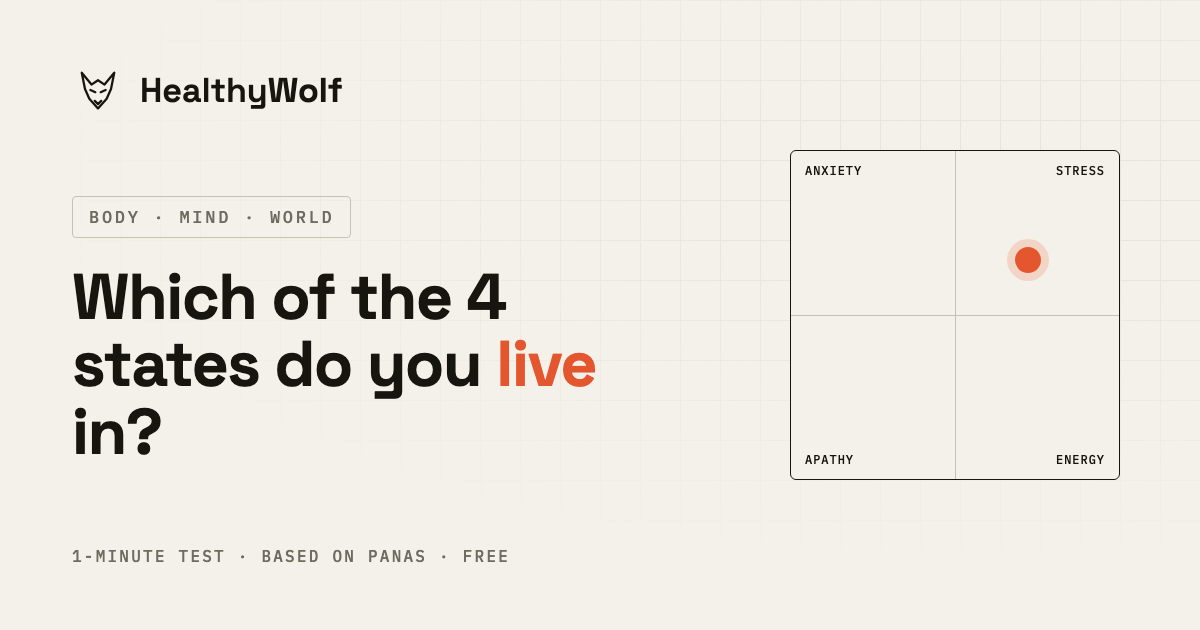
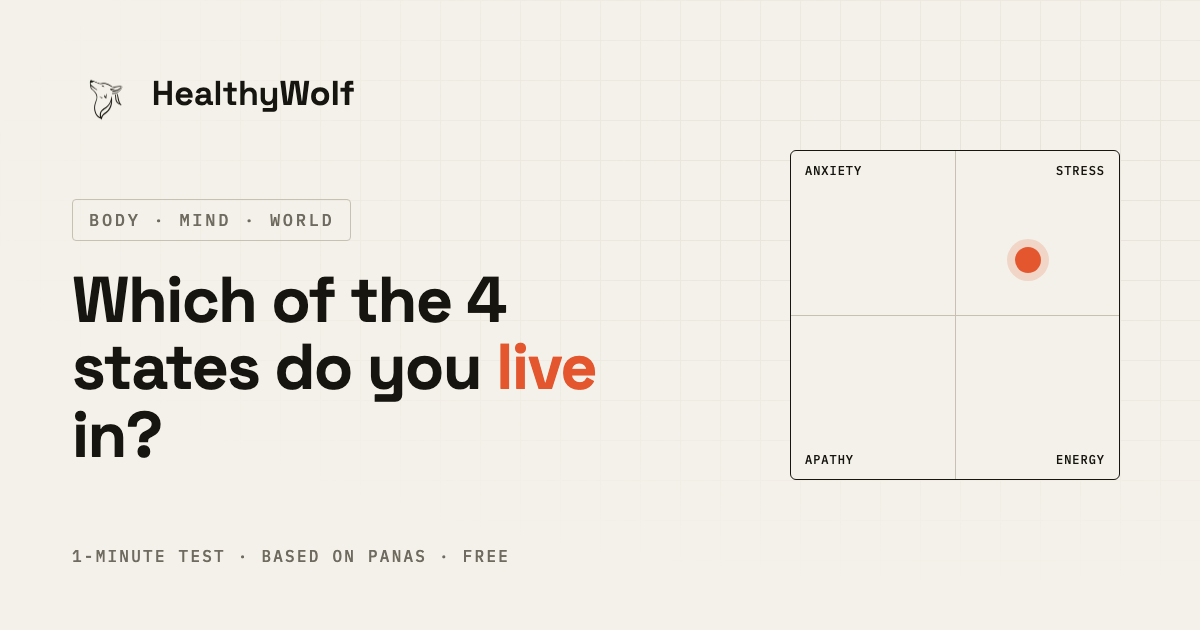
Фирменный лого волка везде + фикс фото основателя и мобильной вёрстки
Логотип:
- Заменил самодельную SVG-голову на фирменного волка (из brand PNG) во всех 12 страницах (NAV)
- Перекрасил силуэт в чернильный #16150F (для бумаги) и кремовый #F4F1EA (для тёмного): assets/wolf-ink.png, wolf-cream.png
- Новый favicon.ico + apple-touch-icon.png (чернильный волк на бумаге); удалён старый favicon.svg
- og.png/og-en.png пересобраны с фирменным лого
- Двух разных волков больше нет

Фото основателя (janov.png):
- Починил aspect-ratio 3:4 (была натуральная высота 1596px → фото на весь экран)
- Кадр «голова и плечи»: object-position 50% 15%, ремень/низ вне кадра
- Мобильный: max-width 280px по центру; десктоп: колонка max 360px
- Подпись «ДЖОНИ ВОЛК · ОСНОВАТЕЛЬ» в одну строку

Мобильная вёрстка (390px):
- Основные CTA на всю ширину с отступами 20px
- Проверены все 12 страниц: горизонтальных переполнений нет
- Бургер-меню, якоря, переключатель RU/EN работают

diff --git a/assets/lab.css b/assets/lab.css
@@ -162,6 +162,13 @@ section.tight { padding: clamp(40px, 8vw, 72px) 0; }
 .btn--sm { padding: 11px 18px; font-size: 12px; }
 .btn--block { display: flex; width: 100%; justify-content: center; }
 
+/* на мобиле основные CTA — на всю ширину (отступы 20px даёт .wrap) */
+@media (max-width: 480px) {
+  .btn:not(.btn--sm) { width: 100%; justify-content: center; }
+  .hero__cta { width: 100%; }
+  .result__actions { flex-direction: column; }
+}
+
 /* текст-ссылка со стрелкой */
 .tlink {
   font-family: var(--mono);
@@ -186,7 +193,7 @@ section.tight { padding: clamp(40px, 8vw, 72px) 0; }
 }
 .nav__in { max-width: var(--maxw); margin: 0 auto; padding: 12px var(--pad); display: flex; align-items: center; justify-content: space-between; gap: 16px; }
 .brand { display: inline-flex; align-items: center; gap: 10px; text-decoration: none; color: var(--ink); }
-.brand svg { width: 30px; height: 30px; display: block; }
+.brand__ico { height: 28px; width: auto; display: block; }
 .brand__name { font-family: var(--display); font-weight: 600; font-size: 19px; letter-spacing: -0.01em; }
 .brand__name b { font-weight: 600; }
 
@@ -283,8 +290,8 @@ section.tight { padding: clamp(40px, 8vw, 72px) 0; }
 @media (max-width: 800px) {
   .cols2 { grid-template-columns: 1fr; }
   .cols2.rev > *:first-child { order: 2; }
-  /* на мобиле портрет основателя не должен занимать весь экран */
-  .cols2 .photo { max-width: 230px; }
+  /* на мобиле портрет основателя компактный и по центру колонки */
+  .cols2 .photo { max-width: 280px; }
 }
 
 .lead {
@@ -292,10 +299,10 @@ section.tight { padding: clamp(40px, 8vw, 72px) 0; }
   line-height: 1.3; color: var(--ink); margin: 0 0 18px; max-width: 26ch;
 }
 
-/* фото в рамке (разрешённая «коробка») */
-.photo { border: 1px solid var(--ink); border-radius: var(--radius); overflow: hidden; background: var(--paper-2); }
-.photo img { width: 100%; aspect-ratio: 3 / 4; object-fit: cover; object-position: 50% 12%; }
-.photo__cap { font-family: var(--mono); font-size: 10.5px; letter-spacing: 0.14em; text-transform: uppercase; color: var(--ink-2); padding: 10px 12px; border-top: 1px solid var(--line); }
+/* фото в рамке (разрешённая «коробка») — портрет «голова и плечи» */
+.photo { border: 1px solid var(--ink); border-radius: var(--radius); overflow: hidden; background: var(--paper-2); max-width: 360px; margin-inline: auto; }
+.photo img { width: 100%; height: auto; aspect-ratio: 3 / 4; object-fit: cover; object-position: 50% 15%; display: block; }
+.photo__cap { font-family: var(--mono); font-size: 10px; letter-spacing: 0.1em; text-transform: uppercase; color: var(--ink-2); padding: 10px 12px; border-top: 1px solid var(--line); white-space: nowrap; overflow: hidden; text-overflow: ellipsis; }
 
 /* -------- слот под видео -------- */
 .videoslot {

diff --git a/index.html b/index.html
@@ -24,8 +24,8 @@
 <meta name="twitter:description" content="Тело, психика и мир — одна машина. Бесплатный тест на основе PANAS покажет твой тип.">
 <meta name="twitter:image" content="https://myhealthywolf.com/assets/og.png">
 <meta name="theme-color" content="#F4F1EA">
-<link rel="icon" href="/assets/favicon.svg" type="image/svg+xml">
-<link rel="apple-touch-icon" href="/assets/favicon.svg">
+<link rel="icon" href="/assets/favicon.ico" sizes="any">
+<link rel="apple-touch-icon" href="/assets/apple-touch-icon.png">
 <link rel="preconnect" href="https://fonts.googleapis.com">
 <link rel="preconnect" href="https://fonts.gstatic.com" crossorigin>
 <link href="https://fonts.googleapis.com/css2?family=IBM+Plex+Mono:wght@400;500;600&family=Inter:wght@400;500;600&family=Space+Grotesk:wght@500;600;700&display=swap" rel="stylesheet">
@@ -40,10 +40,7 @@
 <header class="nav">
   <div class="nav__in">
     <a class="brand" href="/" aria-label="HealthyWolf — на главную">
-      <svg viewBox="0 0 48 48" fill="none" stroke="currentColor" stroke-width="2.1" stroke-linejoin="round" stroke-linecap="round" aria-hidden="true">
-        <path d="M9 8 L18 19 L24 15 L30 19 L39 8 L36 23 L32 32 L24 41 L16 32 L12 23 Z"/>
-        <path d="M17 24 L21.5 26"/><path d="M31 24 L26.5 26"/><path d="M21 34 L24 37 L27 34"/>
-      </svg>
+      <img class="brand__ico" src="/assets/wolf-ink.png" alt="" width="30" height="27">
       <span class="brand__name">Healthy<b>Wolf</b></span>
     </a>
     <button class="burger" aria-label="Меню" aria-expanded="false"><span></span></button>

diff --git a/en/index.html b/en/index.html
@@ -23,8 +23,8 @@
 <meta name="twitter:description" content="Body, mind and world are one machine. A free PANAS-based test shows your type.">
 <meta name="twitter:image" content="https://myhealthywolf.com/assets/og-en.png">
 <meta name="theme-color" content="#F4F1EA">
-<link rel="icon" href="/assets/favicon.svg" type="image/svg+xml">
-<link rel="apple-touch-icon" href="/assets/favicon.svg">
+<link rel="icon" href="/assets/favicon.ico" sizes="any">
+<link rel="apple-touch-icon" href="/assets/apple-touch-icon.png">
 <link rel="preconnect" href="https://fonts.googleapis.com">
 <link rel="preconnect" href="https://fonts.gstatic.com" crossorigin>
 <link href="https://fonts.googleapis.com/css2?family=IBM+Plex+Mono:wght@400;500;600&family=Inter:wght@400;500;600&family=Space+Grotesk:wght@500;600;700&display=swap" rel="stylesheet">
@@ -39,10 +39,7 @@
 <header class="nav">
   <div class="nav__in">
     <a class="brand" href="/en/" aria-label="HealthyWolf — home">
-      <svg viewBox="0 0 48 48" fill="none" stroke="currentColor" stroke-width="2.1" stroke-linejoin="round" stroke-linecap="round" aria-hidden="true">
-        <path d="M9 8 L18 19 L24 15 L30 19 L39 8 L36 23 L32 32 L24 41 L16 32 L12 23 Z"/>
-        <path d="M17 24 L21.5 26"/><path d="M31 24 L26.5 26"/><path d="M21 34 L24 37 L27 34"/>
-      </svg>
+      <img class="brand__ico" src="/assets/wolf-ink.png" alt="" width="30" height="27">
       <span class="brand__name">Healthy<b>Wolf</b></span>
     </a>
     <button class="burger" aria-label="Menu" aria-expanded="false"><span></span></button>

diff --git a/privacy/index.html b/privacy/index.html
@@ -9,7 +9,8 @@
 <link rel="alternate" hreflang="ru" href="https://myhealthywolf.com/privacy/">
 <link rel="alternate" hreflang="en" href="https://myhealthywolf.com/en/privacy/">
 <meta name="theme-color" content="#F4F1EA">
-<link rel="icon" href="/assets/favicon.svg" type="image/svg+xml">
+<link rel="icon" href="/assets/favicon.ico" sizes="any">
+<link rel="apple-touch-icon" href="/assets/apple-touch-icon.png">
 <link rel="preconnect" href="https://fonts.googleapis.com">
 <link rel="preconnect" href="https://fonts.gstatic.com" crossorigin>
 <link href="https://fonts.googleapis.com/css2?family=IBM+Plex+Mono:wght@400;500;600&family=Inter:wght@400;500;600&family=Space+Grotesk:wght@500;600;700&display=swap" rel="stylesheet">
@@ -21,10 +22,7 @@
 <header class="nav">
   <div class="nav__in">
     <a class="brand" href="/" aria-label="HealthyWolf — на главную">
-      <svg viewBox="0 0 48 48" fill="none" stroke="currentColor" stroke-width="2.1" stroke-linejoin="round" stroke-linecap="round" aria-hidden="true">
-        <path d="M9 8 L18 19 L24 15 L30 19 L39 8 L36 23 L32 32 L24 41 L16 32 L12 23 Z"/>
-        <path d="M17 24 L21.5 26"/><path d="M31 24 L26.5 26"/><path d="M21 34 L24 37 L27 34"/>
-      </svg>
+      <img class="brand__ico" src="/assets/wolf-ink.png" alt="" width="30" height="27">
       <span class="brand__name">Healthy<b>Wolf</b></span>
     </a>
     <span class="lang">

diff --git a/terms/index.html b/terms/index.html
@@ -9,7 +9,8 @@
 <link rel="alternate" hreflang="ru" href="https://myhealthywolf.com/terms/">
 <link rel="alternate" hreflang="en" href="https://myhealthywolf.com/en/terms/">
 <meta name="theme-color" content="#F4F1EA">
-<link rel="icon" href="/assets/favicon.svg" type="image/svg+xml">
+<link rel="icon" href="/assets/favicon.ico" sizes="any">
+<link rel="apple-touch-icon" href="/assets/apple-touch-icon.png">
 <link rel="preconnect" href="https://fonts.googleapis.com">
 <link rel="preconnect" href="https://fonts.gstatic.com" crossorigin>
 <link href="https://fonts.googleapis.com/css2?family=IBM+Plex+Mono:wght@400;500;600&family=Inter:wght@400;500;600&family=Space+Grotesk:wght@500;600;700&display=swap" rel="stylesheet">
@@ -21,10 +22,7 @@
 <header class="nav">
   <div class="nav__in">
     <a class="brand" href="/" aria-label="HealthyWolf — на главную">
-      <svg viewBox="0 0 48 48" fill="none" stroke="currentColor" stroke-width="2.1" stroke-linejoin="round" stroke-linecap="round" aria-hidden="true">
-        <path d="M9 8 L18 19 L24 15 L30 19 L39 8 L36 23 L32 32 L24 41 L16 32 L12 23 Z"/>
-        <path d="M17 24 L21.5 26"/><path d="M31 24 L26.5 26"/><path d="M21 34 L24 37 L27 34"/>
-      </svg>
+      <img class="brand__ico" src="/assets/wolf-ink.png" alt="" width="30" height="27">
       <span class="brand__name">Healthy<b>Wolf</b></span>
     </a>
     <span class="lang">

diff --git a/en/privacy/index.html b/en/privacy/index.html
@@ -9,7 +9,8 @@
 <link rel="alternate" hreflang="ru" href="https://myhealthywolf.com/privacy/">
 <link rel="alternate" hreflang="en" href="https://myhealthywolf.com/en/privacy/">
 <meta name="theme-color" content="#F4F1EA">
-<link rel="icon" href="/assets/favicon.svg" type="image/svg+xml">
+<link rel="icon" href="/assets/favicon.ico" sizes="any">
+<link rel="apple-touch-icon" href="/assets/apple-touch-icon.png">
 <link rel="preconnect" href="https://fonts.googleapis.com">
 <link rel="preconnect" href="https://fonts.gstatic.com" crossorigin>
 <link href="https://fonts.googleapis.com/css2?family=IBM+Plex+Mono:wght@400;500;600&family=Inter:wght@400;500;600&family=Space+Grotesk:wght@500;600;700&display=swap" rel="stylesheet">
@@ -21,10 +22,7 @@
 <header class="nav">
   <div class="nav__in">
     <a class="brand" href="/en/" aria-label="HealthyWolf — home">
-      <svg viewBox="0 0 48 48" fill="none" stroke="currentColor" stroke-width="2.1" stroke-linejoin="round" stroke-linecap="round" aria-hidden="true">
-        <path d="M9 8 L18 19 L24 15 L30 19 L39 8 L36 23 L32 32 L24 41 L16 32 L12 23 Z"/>
-        <path d="M17 24 L21.5 26"/><path d="M31 24 L26.5 26"/><path d="M21 34 L24 37 L27 34"/>
-      </svg>
+      <img class="brand__ico" src="/assets/wolf-ink.png" alt="" width="30" height="27">
       <span class="brand__name">Healthy<b>Wolf</b></span>
     </a>
     <span class="lang">

diff --git a/en/terms/index.html b/en/terms/index.html
@@ -9,7 +9,8 @@
 <link rel="alternate" hreflang="ru" href="https://myhealthywolf.com/terms/">
 <link rel="alternate" hreflang="en" href="https://myhealthywolf.com/en/terms/">
 <meta name="theme-color" content="#F4F1EA">
-<link rel="icon" href="/assets/favicon.svg" type="image/svg+xml">
+<link rel="icon" href="/assets/favicon.ico" sizes="any">
+<link rel="apple-touch-icon" href="/assets/apple-touch-icon.png">
 <link rel="preconnect" href="https://fonts.googleapis.com">
 <link rel="preconnect" href="https://fonts.gstatic.com" crossorigin>
 <link href="https://fonts.googleapis.com/css2?family=IBM+Plex+Mono:wght@400;500;600&family=Inter:wght@400;500;600&family=Space+Grotesk:wght@500;600;700&display=swap" rel="stylesheet">
@@ -21,10 +22,7 @@
 <header class="nav">
   <div class="nav__in">
     <a class="brand" href="/en/" aria-label="HealthyWolf — home">
-      <svg viewBox="0 0 48 48" fill="none" stroke="currentColor" stroke-width="2.1" stroke-linejoin="round" stroke-linecap="round" aria-hidden="true">
-        <path d="M9 8 L18 19 L24 15 L30 19 L39 8 L36 23 L32 32 L24 41 L16 32 L12 23 Z"/>
-        <path d="M17 24 L21.5 26"/><path d="M31 24 L26.5 26"/><path d="M21 34 L24 37 L27 34"/>
-      </svg>
+      <img class="brand__ico" src="/assets/wolf-ink.png" alt="" width="30" height="27">
       <span class="brand__name">Healthy<b>Wolf</b></span>
     </a>
     <span class="lang">

diff --git a/test/index.html b/test/index.html
@@ -16,7 +16,8 @@
 <meta property="og:image" content="https://myhealthywolf.com/assets/og.png">
 <meta name="twitter:card" content="summary_large_image">
 <meta name="theme-color" content="#F4F1EA">
-<link rel="icon" href="/assets/favicon.svg" type="image/svg+xml">
+<link rel="icon" href="/assets/favicon.ico" sizes="any">
+<link rel="apple-touch-icon" href="/assets/apple-touch-icon.png">
 <link rel="preconnect" href="https://fonts.googleapis.com">
 <link rel="preconnect" href="https://fonts.gstatic.com" crossorigin>
 <link href="https://fonts.googleapis.com/css2?family=IBM+Plex+Mono:wght@400;500;600&family=Inter:wght@400;500;600&family=Space+Grotesk:wght@500;600;700&display=swap" rel="stylesheet">
@@ -28,10 +29,7 @@
 <header class="nav">
   <div class="nav__in">
     <a class="brand" href="/" aria-label="HealthyWolf — на главную">
-      <svg viewBox="0 0 48 48" fill="none" stroke="currentColor" stroke-width="2.1" stroke-linejoin="round" stroke-linecap="round" aria-hidden="true">
-        <path d="M9 8 L18 19 L24 15 L30 19 L39 8 L36 23 L32 32 L24 41 L16 32 L12 23 Z"/>
-        <path d="M17 24 L21.5 26"/><path d="M31 24 L26.5 26"/><path d="M21 34 L24 37 L27 34"/>
-      </svg>
+      <img class="brand__ico" src="/assets/wolf-ink.png" alt="" width="30" height="27">
       <span class="brand__name">Healthy<b>Wolf</b></span>
     </a>
     <span class="lang">

diff --git a/en/test/index.html b/en/test/index.html
@@ -16,7 +16,8 @@
 <meta property="og:image" content="https://myhealthywolf.com/assets/og-en.png">
 <meta name="twitter:card" content="summary_large_image">
 <meta name="theme-color" content="#F4F1EA">
-<link rel="icon" href="/assets/favicon.svg" type="image/svg+xml">
+<link rel="icon" href="/assets/favicon.ico" sizes="any">
+<link rel="apple-touch-icon" href="/assets/apple-touch-icon.png">
 <link rel="preconnect" href="https://fonts.googleapis.com">
 <link rel="preconnect" href="https://fonts.gstatic.com" crossorigin>
 <link href="https://fonts.googleapis.com/css2?family=IBM+Plex+Mono:wght@400;500;600&family=Inter:wght@400;500;600&family=Space+Grotesk:wght@500;600;700&display=swap" rel="stylesheet">
@@ -28,10 +29,7 @@
 <header class="nav">
   <div class="nav__in">
     <a class="brand" href="/en/" aria-label="HealthyWolf — home">
-      <svg viewBox="0 0 48 48" fill="none" stroke="currentColor" stroke-width="2.1" stroke-linejoin="round" stroke-linecap="round" aria-hidden="true">
-        <path d="M9 8 L18 19 L24 15 L30 19 L39 8 L36 23 L32 32 L24 41 L16 32 L12 23 Z"/>
-        <path d="M17 24 L21.5 26"/><path d="M31 24 L26.5 26"/><path d="M21 34 L24 37 L27 34"/>
-      </svg>
+      <img class="brand__ico" src="/assets/wolf-ink.png" alt="" width="30" height="27">
       <span class="brand__name">Healthy<b>Wolf</b></span>
     </a>
     <span class="lang">

diff --git a/test/quiz/index.html b/test/quiz/index.html
@@ -5,7 +5,8 @@
 <meta name="viewport" content="width=device-width, initial-scale=1">
 <meta name="robots" content="noindex">
 <title>Тест — вопросы | HealthyWolf</title>
-<link rel="icon" href="/assets/favicon.svg" type="image/svg+xml">
+<link rel="icon" href="/assets/favicon.ico" sizes="any">
+<link rel="apple-touch-icon" href="/assets/apple-touch-icon.png">
 <meta name="theme-color" content="#F4F1EA">
 <link rel="preconnect" href="https://fonts.googleapis.com">
 <link rel="preconnect" href="https://fonts.gstatic.com" crossorigin>
@@ -18,10 +19,7 @@
 <header class="nav">
   <div class="nav__in">
     <a class="brand" href="/test/" aria-label="HealthyWolf">
-      <svg viewBox="0 0 48 48" fill="none" stroke="currentColor" stroke-width="2.1" stroke-linejoin="round" stroke-linecap="round" aria-hidden="true">
-        <path d="M9 8 L18 19 L24 15 L30 19 L39 8 L36 23 L32 32 L24 41 L16 32 L12 23 Z"/>
-        <path d="M17 24 L21.5 26"/><path d="M31 24 L26.5 26"/><path d="M21 34 L24 37 L27 34"/>
-      </svg>
+      <img class="brand__ico" src="/assets/wolf-ink.png" alt="" width="30" height="27">
       <span class="brand__name">Healthy<b>Wolf</b></span>
     </a>
     <span class="mono sm" id="quiz-hint">PANAS · 24</span>

diff --git a/en/test/quiz/index.html b/en/test/quiz/index.html
@@ -5,7 +5,8 @@
 <meta name="viewport" content="width=device-width, initial-scale=1">
 <meta name="robots" content="noindex">
 <title>Test — questions | HealthyWolf</title>
-<link rel="icon" href="/assets/favicon.svg" type="image/svg+xml">
+<link rel="icon" href="/assets/favicon.ico" sizes="any">
+<link rel="apple-touch-icon" href="/assets/apple-touch-icon.png">
 <meta name="theme-color" content="#F4F1EA">
 <link rel="preconnect" href="https://fonts.googleapis.com">
 <link rel="preconnect" href="https://fonts.gstatic.com" crossorigin>
@@ -18,10 +19,7 @@
 <header class="nav">
   <div class="nav__in">
     <a class="brand" href="/en/test/" aria-label="HealthyWolf">
-      <svg viewBox="0 0 48 48" fill="none" stroke="currentColor" stroke-width="2.1" stroke-linejoin="round" stroke-linecap="round" aria-hidden="true">
-        <path d="M9 8 L18 19 L24 15 L30 19 L39 8 L36 23 L32 32 L24 41 L16 32 L12 23 Z"/>
-        <path d="M17 24 L21.5 26"/><path d="M31 24 L26.5 26"/><path d="M21 34 L24 37 L27 34"/>
-      </svg>
+      <img class="brand__ico" src="/assets/wolf-ink.png" alt="" width="30" height="27">
       <span class="brand__name">Healthy<b>Wolf</b></span>
     </a>
     <span class="mono sm">PANAS · 24</span>

diff --git a/test/result/index.html b/test/result/index.html
@@ -5,7 +5,8 @@
 <meta name="viewport" content="width=device-width, initial-scale=1">
 <meta name="robots" content="noindex">
 <title>Твой отчёт | HealthyWolf</title>
-<link rel="icon" href="/assets/favicon.svg" type="image/svg+xml">
+<link rel="icon" href="/assets/favicon.ico" sizes="any">
+<link rel="apple-touch-icon" href="/assets/apple-touch-icon.png">
 <meta name="theme-color" content="#F4F1EA">
 <link rel="preconnect" href="https://fonts.googleapis.com">
 <link rel="preconnect" href="https://fonts.gstatic.com" crossorigin>
@@ -18,10 +19,7 @@
 <header class="nav">
   <div class="nav__in">
     <a class="brand" href="/" aria-label="HealthyWolf — на главную">
-      <svg viewBox="0 0 48 48" fill="none" stroke="currentColor" stroke-width="2.1" stroke-linejoin="round" stroke-linecap="round" aria-hidden="true">
-        <path d="M9 8 L18 19 L24 15 L30 19 L39 8 L36 23 L32 32 L24 41 L16 32 L12 23 Z"/>
-        <path d="M17 24 L21.5 26"/><path d="M31 24 L26.5 26"/><path d="M21 34 L24 37 L27 34"/>
-      </svg>
+      <img class="brand__ico" src="/assets/wolf-ink.png" alt="" width="30" height="27">
       <span class="brand__name">Healthy<b>Wolf</b></span>
     </a>
     <span class="lang">
